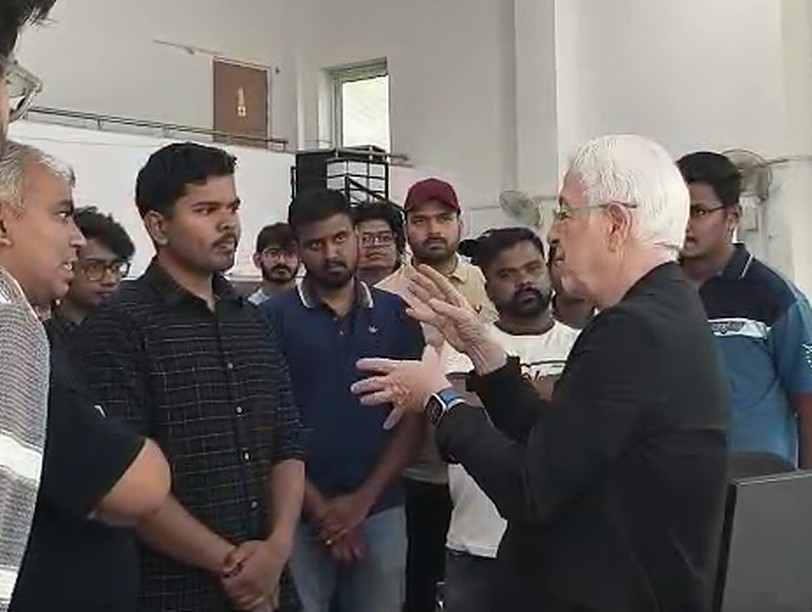
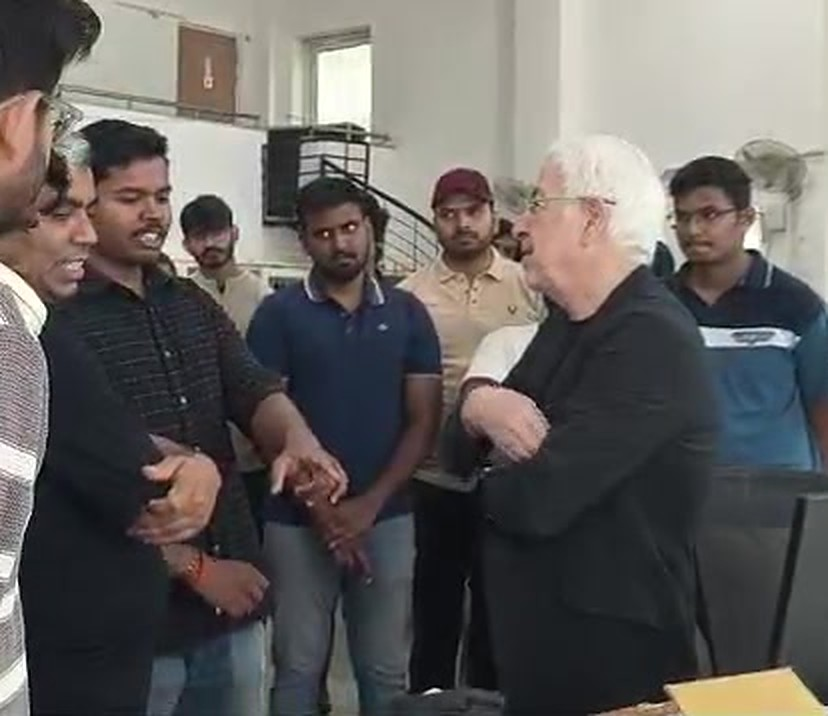
Use 1:36 frame of explaining the biped to Prof. Khatib

diff --git a/index.html b/index.html
@@ -554,7 +554,7 @@
         <figure data-cat="robots" class="wide"><video autoplay loop muted playsinline preload="metadata" poster="media/gal_isaac.jpg"><source src="media/gal_isaac.mp4" type="video/mp4"></video><figcaption>Training the 2nd-generation biped with massively parallel RL in Isaac Gym</figcaption></figure>
         <figure data-cat="robots" class="wide"><video autoplay loop muted playsinline preload="metadata" poster="media/adaterrain_sim2real.jpg"><source src="media/adaterrain_sim2real.mp4" type="video/mp4"></video><figcaption>AdaTerrainDiff sim-to-real transfer on the 10-DOF biped</figcaption></figure>
         <figure data-cat="events" class="wide"><img src="media/gal_khatib_visit.jpg" alt="Prof. Oussama Khatib with members of the Drone Lab, IIT Mandi" loading="lazy" decoding="async"><figcaption>Prof. Oussama Khatib's visit to the Drone Lab, IIT Mandi</figcaption></figure>
-        <figure data-cat="events"><img src="media/gal_khatib_shukla.jpg" alt="Jagannath discussing the biped with Prof. Oussama Khatib, with Dr. Amit Shukla beside him" loading="lazy" decoding="async"><figcaption>Discussing my biped with Prof. Oussama Khatib and Dr. Amit Shukla, IIT Mandi</figcaption></figure>
+        <figure data-cat="events"><img src="media/gal_khatib_shukla.jpg" alt="Jagannath explaining his biped to Prof. Oussama Khatib while Dr. Amit Shukla looks on, smiling" loading="lazy" decoding="async"><figcaption>Explaining my biped to Prof. Oussama Khatib, with Dr. Amit Shukla, IIT Mandi</figcaption></figure>
         <figure data-cat="robots" class="wide"><img src="media/tongue_seg.jpg" alt="TongueTales segmentation results: original tongue images, predicted masks and colour-normalised tongue regions" loading="lazy" decoding="async"><figcaption>TongueTales: tongue segmentation and colour normalisation (AITech Hackathon, IIT Mandi)</figcaption></figure>
         <figure data-cat="events" class="wide"><img src="media/gal_ta_award.jpg" alt="Receiving the Outstanding Teaching Assistant Award with fellow awardees and faculty" loading="lazy" decoding="async"><figcaption>Outstanding Teaching Assistant Award, IIT Mandi</figcaption></figure>
         <figure data-cat="events" class="wide"><img src="media/gal_farewell.jpg" alt="Farewell gathering with labmates" loading="lazy" decoding="async"><figcaption>My farewell, IIT Mandi</figcaption></figure>
